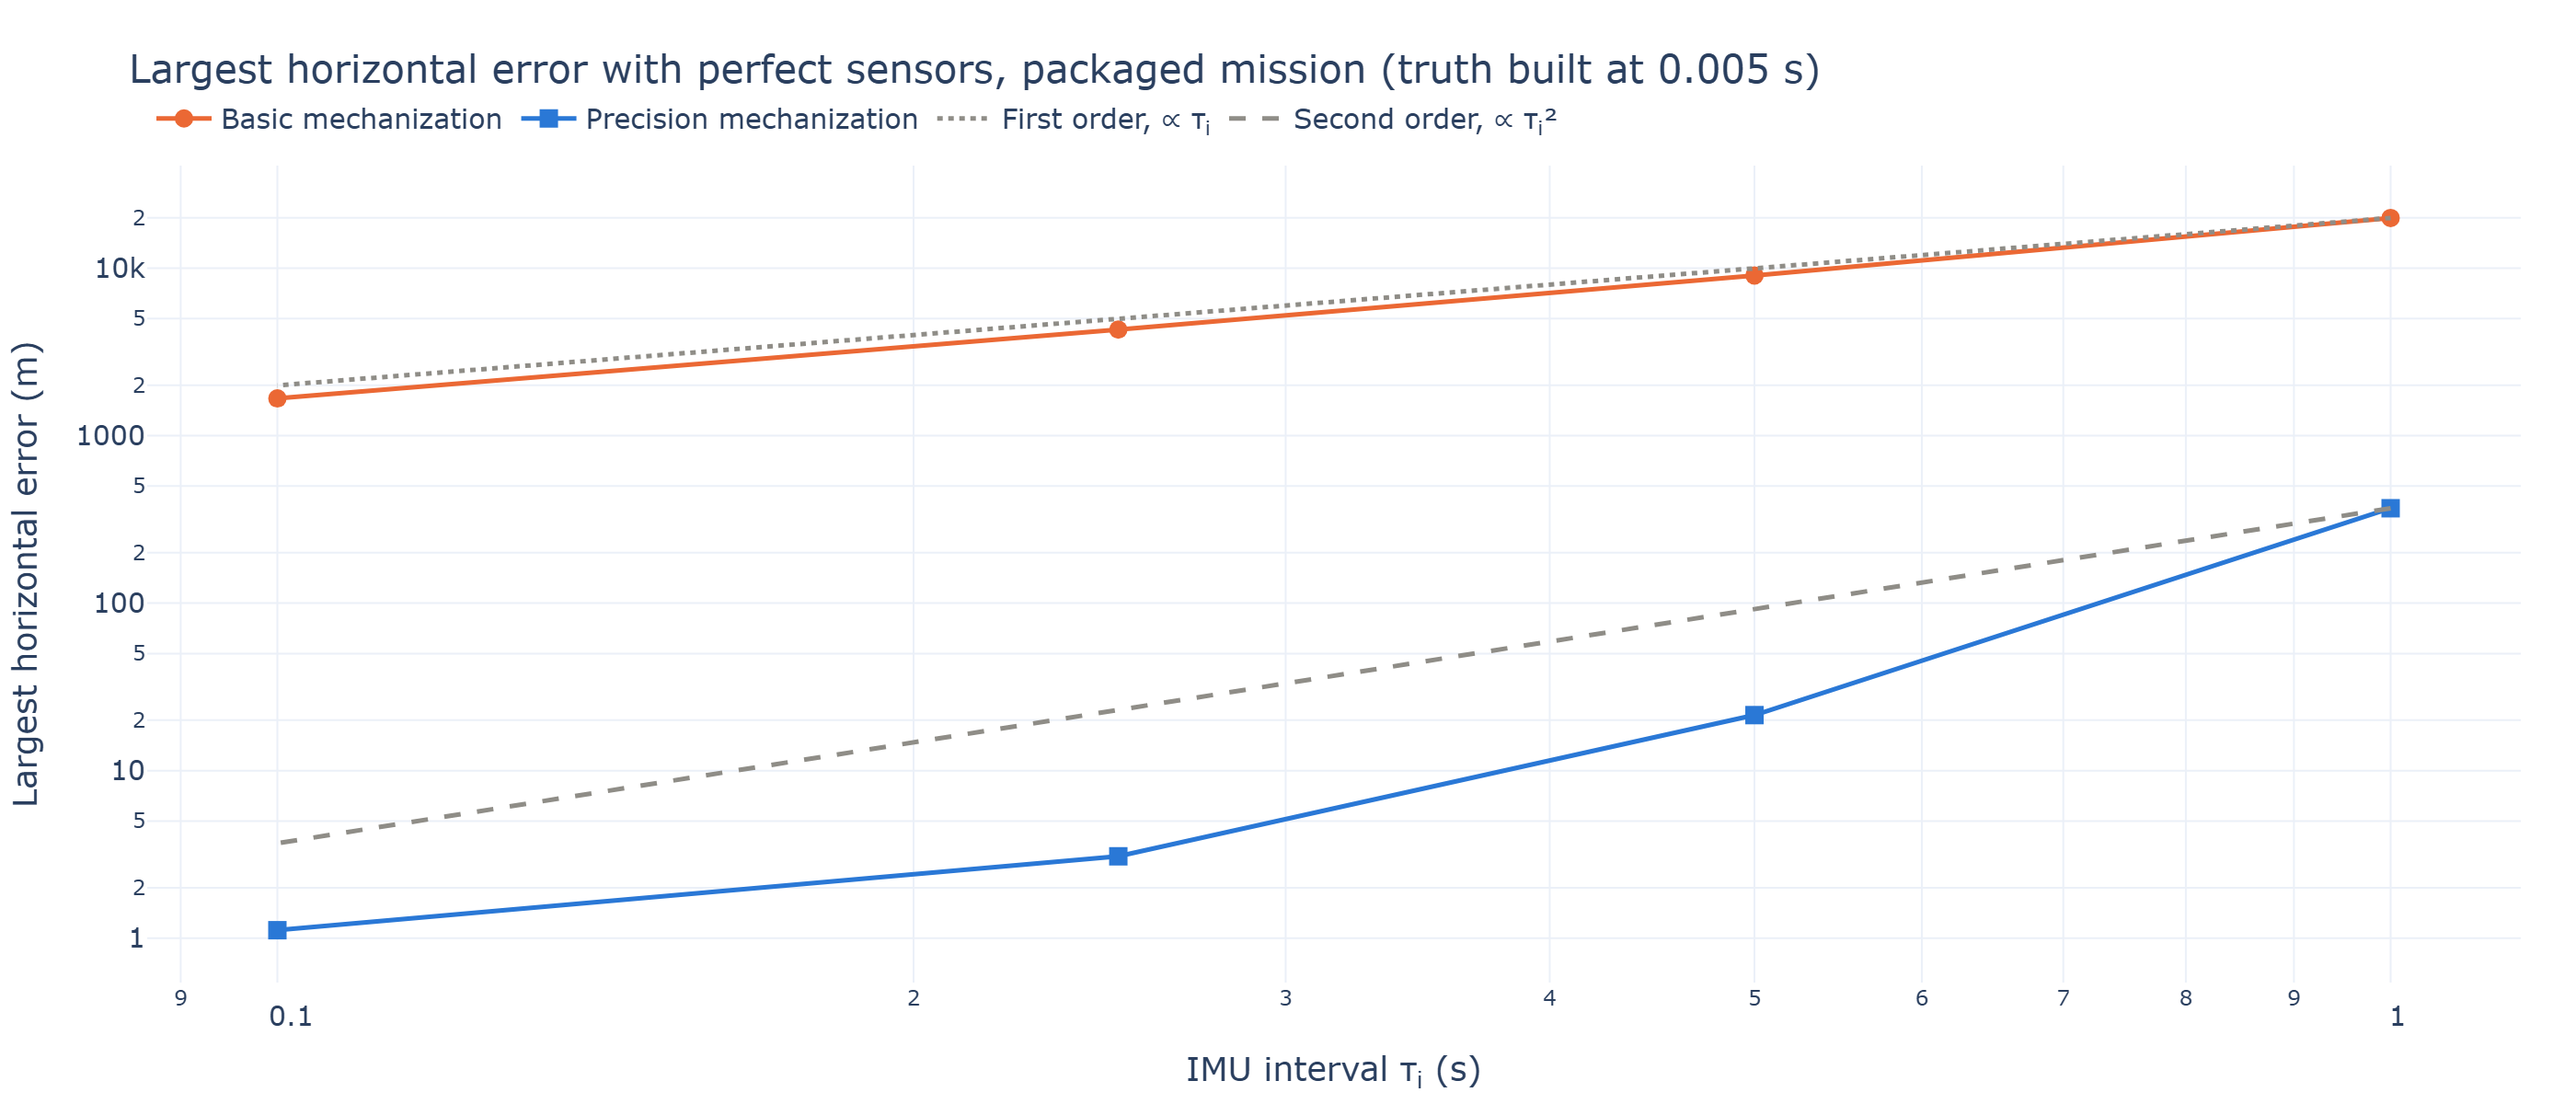
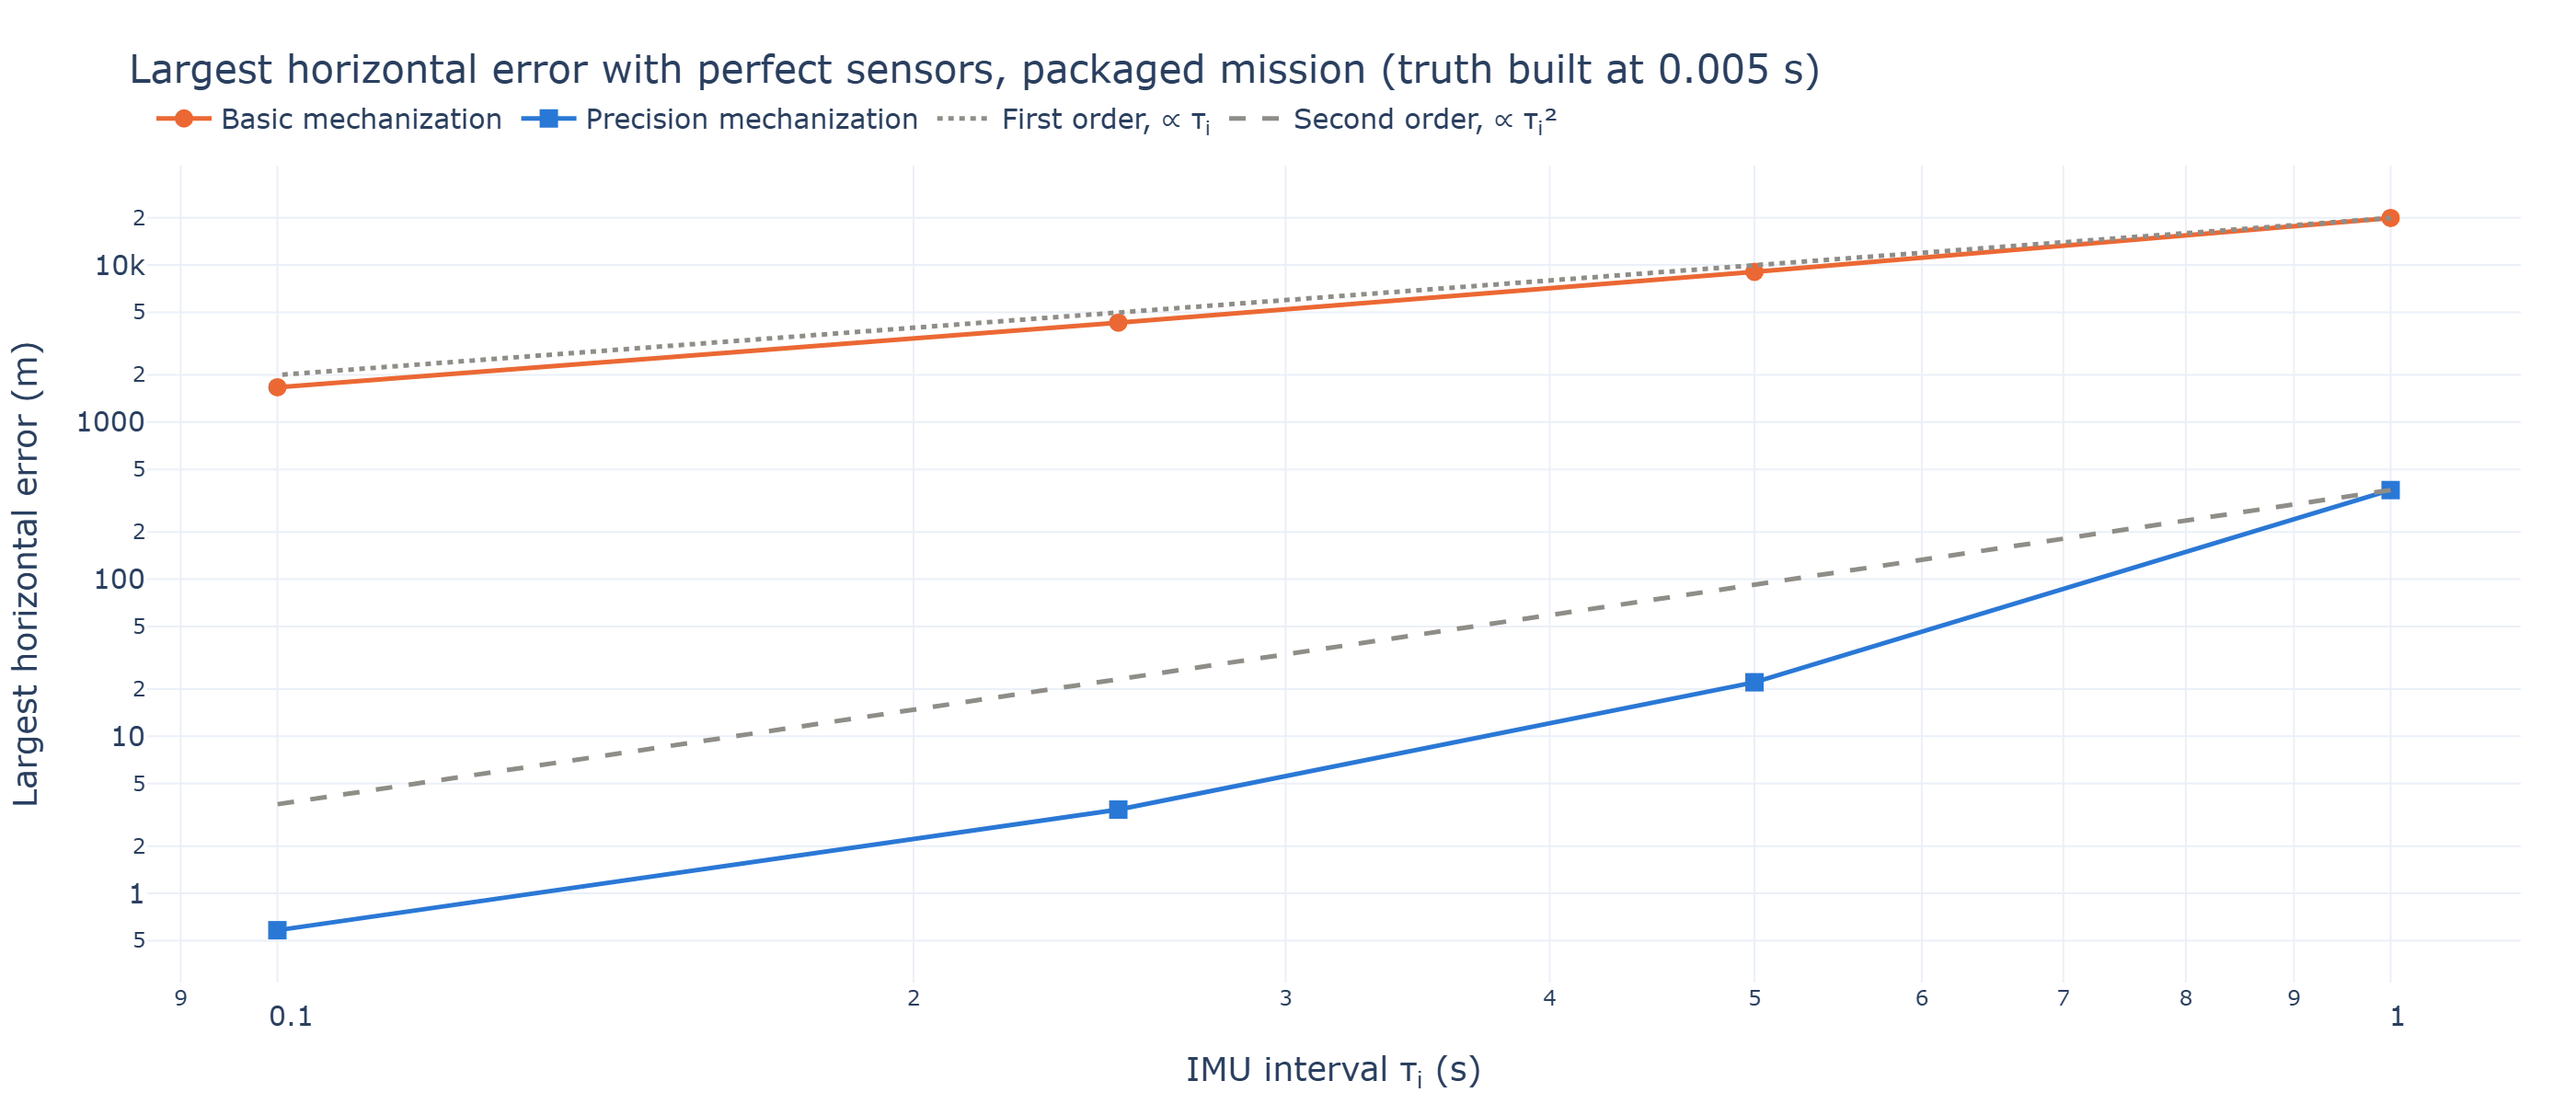
Fix the integrating-IMU truth's endpoint and interval averages
Answers the review of the precision mechanization:

- An oversampled spline truth no longer keeps a partial last profile
  step. Clamped to the path end, its second-order difference reversed
  the final velocity, a 180-degree heading jump and a false 4.6 g
  specific-force pulse. The path now stops up to one profile step short
  of its end; default truths are unchanged.
- The truth's fine-step specific force and frame rate take gravity, the
  Coriolis term and omega_in at the mean of their two end values, not
  the start values, which left a first-order bias in the truth.
- Both trapezoidal latitude updates, in the truth and in the precision
  navigator, take the end-of-step radii at a predicted end latitude.

With the defaults every seeded run still matches main exactly. On the
packaged mission at 0.1 s and M=10 with perfect sensors, the precision
navigator's largest error falls from 3.0 m to 1.9 m (the truth's floor);
at 1 s it is 198 m, and its convergence order is 4.06. The example
output, the validation figures and the docs carry the new numbers.

diff --git a/ins_sim/trajectory/kinematics.py b/ins_sim/trajectory/kinematics.py
@@ -258,12 +258,14 @@ class TruthTrajectory:
         # --8<-- [start:fine_position]
         for j in range(n_fine - 1):
             h.append(h[j] - 0.5 * (v_D[j] + v_D[j+1]) * tau_f)
+            # Radii at a predicted endpoint latitude keep the update second order.
+            L_pred = L[j] + v_N[j] / (R_N + h[j]) * tau_f
+            R_N_next, R_E_next = _radii(L_pred)
             L.append(L[j] + 0.5 * (v_N[j] / (R_N + h[j])
-                                   + v_N[j+1] / (R_N + h[j+1])) * tau_f)
-            R_N_next, R_E_next = _radii(L[j+1])
+                                   + v_N[j+1] / (R_N_next + h[j+1])) * tau_f)
             lam.append(lam[j] + 0.5 * (v_E[j] / ((R_E + h[j]) * cos(L[j]))
                                        + v_E[j+1] / ((R_E_next + h[j+1]) * cos(L[j+1]))) * tau_f)
-            R_N, R_E = R_N_next, R_E_next
+            R_N, R_E = _radii(L[j+1])
         # --8<-- [end:fine_position]
         L_b, lambda_b, h_b = np.array(L), np.array(lam), np.array(h)
 
@@ -283,12 +285,15 @@ class TruthTrajectory:
         #   omega_nb_b·tau_f + ∫ C_n^b(t) dt · omega_in_n
         #   ∫ C_n^b(t) dt · f_ib_n,
         # with ∫ C_n^b(t) dt = tau_f·Gamma(−phi)·C_n^b(j), phi = omega_nb_b·tau_f.
+        # Coriolis, gravity and omega_in_n change along the interval, so they
+        # take the mean of their end values, as the trapezoidal position does.
         # --8<-- [start:integrated_imu]
         phi = (C_b_n[:-1].inv() * C_b_n[1:]).as_rotvec()     # (n_fine-1, 3)
+        coriolis_minus_g = np.cross(omega_ie_n + omega_in_n, v_eb_n) - g_b_n
         f_ib_n = ((v_eb_n[1:] - v_eb_n[:-1]) / tau_f
-                  + np.cross(omega_ie_n[:-1] + omega_in_n[:-1], v_eb_n[:-1])
-                  - g_b_n[:-1])
-        alpha_fine = phi + tau_f * _gamma_apply(-phi, C_n_b.apply(omega_in_n[:-1]))
+                  + 0.5 * (coriolis_minus_g[:-1] + coriolis_minus_g[1:]))
+        omega_in_mid = 0.5 * (omega_in_n[:-1] + omega_in_n[1:])
+        alpha_fine = phi + tau_f * _gamma_apply(-phi, C_n_b.apply(omega_in_mid))
         upsilon_fine = tau_f * _gamma_apply(-phi, C_n_b.apply(f_ib_n))
         alpha = alpha_fine.reshape(n_out - 1, oversample, 3).sum(axis=1)
         upsilon = upsilon_fine.reshape(n_out - 1, oversample, 3).sum(axis=1)
@@ -328,7 +333,9 @@ class TruthTrajectory:
             lambda_b0_deg: Initial longitude [deg]. Defaults to -76.49.
             h_b0: Initial geodetic height [m]. Defaults to 100.0.
             oversample: Profile samples per IMU interval for an integrating
-                IMU; see `TruthTrajectory`. Defaults to None.
+                IMU; see `TruthTrajectory`. Defaults to None. When set, the
+                path stops at the last whole profile step, up to one step
+                short of its end.
 
         Returns:
             TruthTrajectory: Truth trajectory over the spline.
@@ -345,7 +352,11 @@ class TruthTrajectory:
         """
         T = path.length / speed
         tau_p = tau_i / (oversample or 1)                  # profile interval
-        t = np.arange(0.0, T + tau_p, tau_p)
+        if oversample is None:
+            t = np.arange(0.0, T + tau_p, tau_p)
+        else:
+            # Drop the partial last interval: clamping it reverses the velocity.
+            t = np.arange(int(np.floor(T / tau_p + 1e-9)) + 1) * tau_p
         s_of_t = np.minimum(speed * t, path.length)
         pos_profile = path.position(s_of_t)
         # An oversampled truth is integrated sample by sample, so first-order

diff --git a/ins_sim/navigation/strapdown.py b/ins_sim/navigation/strapdown.py
@@ -290,9 +290,10 @@ def strapdown_navgrade(meas_omega_ib_b: np.ndarray, meas_f_ib_b: np.ndarray,
             # --8<-- [start:precision_position]
             R_N, R_E = wgs84_radii(L_b[k])
             h_b[k+1] = h_b[k] - 0.5 * (v_eb_n[k, 2] + v_eb_n[k+1, 2]) * tau_i
+            L_pred = L_b[k] + v_eb_n[k, 0] / (R_N + h_b[k]) * tau_i
+            R_N_next, R_E_next = wgs84_radii(L_pred)
             L_b[k+1] = L_b[k] + 0.5 * (v_eb_n[k, 0] / (R_N + h_b[k])
-                                       + v_eb_n[k+1, 0] / (R_N + h_b[k+1])) * tau_i
-            R_E_next = wgs84_radii(L_b[k+1])[1]
+                                       + v_eb_n[k+1, 0] / (R_N_next + h_b[k+1])) * tau_i
             lambda_b[k+1] = lambda_b[k] + 0.5 * (
                 v_eb_n[k, 1] / ((R_E + h_b[k]) * np.cos(L_b[k]))
                 + v_eb_n[k+1, 1] / ((R_E_next + h_b[k+1]) * np.cos(L_b[k+1]))) * tau_i

diff --git a/tests/trajectory/test_trajectory.py b/tests/trajectory/test_trajectory.py
@@ -145,6 +145,15 @@ def test_oversampled_outputs_are_interval_averages_for_steady_flight():
     np.testing.assert_allclose(averaged.omega_ib_b[1:n], exact.omega_ib_b[1:n], atol=1e-9)
 
 
+def test_oversampled_spline_keeps_its_speed_to_the_end():
+    """A path that ends part-way through a profile step must not end with a
+    reversed velocity (and a large false specific-force pulse)."""
+    path = NEDSplinePath([[0.0, 0.0, 0.0], [4991.0, 0.0, 0.0]])
+    truth = TruthTrajectory.from_spline(path, speed=100.0, tau_i=1.0, oversample=10)
+    np.testing.assert_allclose(truth.v_eb_n[-3:, 0], 100.0, atol=1e-6)
+    np.testing.assert_allclose(truth.f_ib_b[-3:, 0], 0.0, atol=1e-6)
+
+
 def test_gamma_is_the_mean_rotation_over_the_interval():
     from ins_sim.trajectory.kinematics import _gamma_apply
     psi = np.array([[0.3, -0.2, 0.5], [1e-6, 0.0, 2e-6]])

diff --git a/docs/theory/truth-kinematics.md b/docs/theory/truth-kinematics.md
@@ -234,7 +234,8 @@ each interval. With `oversample` set to \(M\), the mission is built at the
 finer step \(\tau_f = \tau_i/M\), and the truth is the continuous motion
 through those fine samples: between two of them the body turns relative to
 NED at a constant rate, the velocity changes at a constant rate, and the
-specific force in NED is constant. The states are kept every \(M\)-th
+specific force in NED is constant, with gravity and the Coriolis term at
+the mean of their values at the two samples. The states are kept every \(M\)-th
 sample, and the outputs are the averages of \(\wvec{ib}{b}\) and
 \(\fvec{ib}{b}\) over each interval \(\tau_i\), which is what an integrating
 IMU reports.
@@ -247,10 +248,12 @@ linearly between fine samples:
     $$
     h_{b,j+1} = h_{b,j} - \tfrac12\left(v_{D,j} + v_{D,j+1}\right)\tau_f,
     \qquad
-    L_{b,j+1} = L_{b,j} + \tfrac12\left(\frac{v_{N,j}}{R_N + h_{b,j}} + \frac{v_{N,j+1}}{R_N + h_{b,j+1}}\right)\tau_f
+    L_{b,j+1} = L_{b,j} + \tfrac12\left(\frac{v_{N,j}}{R_{N,j} + h_{b,j}} + \frac{v_{N,j+1}}{R_{N,j+1} + h_{b,j+1}}\right)\tau_f
     $$
 
-    and likewise for \(\lambda_b\).
+    and likewise for \(\lambda_b\). The radii at the end of the step are
+    taken at a latitude predicted with the start values, which keeps the
+    update second order.
 
 === "Code"
 
@@ -270,13 +273,15 @@ the way through it. Averaging that over the step gives the matrix
 === "Equation"
 
     $$
-    \avec{ib,j}{b} = \boldsymbol{\phi}_j + \tau_f\,\boldsymbol{\Gamma}(-\boldsymbol{\phi}_j)\,\Cmat{n}{b}(j)\,\wvec{in}{n}(j),
+    \avec{ib,j}{b} = \boldsymbol{\phi}_j + \tau_f\,\boldsymbol{\Gamma}(-\boldsymbol{\phi}_j)\,\Cmat{n}{b}(j)\,\bar{\boldsymbol{\omega}}_{in}^n(j),
     \qquad
     \uvec{ib,j}{b} = \tau_f\,\boldsymbol{\Gamma}(-\boldsymbol{\phi}_j)\,\Cmat{n}{b}(j)\,\fvec{ib}{n}(j)
     $$
 
-    with \(\fvec{ib}{n}(j)\) as in step 4 above, at the fine step. The
-    outputs are the sums over the \(M\) fine steps of each interval,
+    with \(\fvec{ib}{n}(j)\) as in step 4 above, at the fine step, but with
+    gravity and the Coriolis term averaged over the two samples, and
+    \(\bar{\boldsymbol{\omega}}_{in}^n(j)\) the mean of \(\wvec{in}{n}\) at
+    the two samples. The outputs are the sums over the \(M\) fine steps of each interval,
     divided by \(\tau_i\).
 
 === "Code"
@@ -288,8 +293,8 @@ the way through it. Averaging that over the step gives the matrix
 The truth is still built from fine samples, so it is continuous motion only
 to the extent that the fine step resolves it. Against it, a navigator at
 \(\tau_i\) shows its own error plus a floor from the fine step that falls
-with \(\tau_f^2\): on the packaged mission, about 3 m of horizontal error at
-\(\tau_f\) = 0.01 s, and 1 m at 0.005 s. Keep \(M\) large enough that the
+as \(\tau_f\) shrinks: on the packaged mission, about 2 m of horizontal
+error at \(\tau_f\) = 0.01 s, and 0.6 m at 0.005 s. Keep \(M\) large enough that the
 floor stays below the error you want to see. The
 [Strapdown mechanization](mechanization.md#precision-mechanization) page
 describes the navigator that integrates these outputs accurately.

diff --git a/docs/theory/mechanization.md b/docs/theory/mechanization.md
@@ -23,7 +23,7 @@ Groves[^groves].
       coning, rotation and sculling corrections and a trapezoidal position
       update, for the outputs of a real, integrating IMU. On the packaged
       mission at a 0.1 s step it cuts the navigator's own error from
-      1.7 km to about 3 m.
+      1.7 km to about 2 m.
 
 ## Physical picture
 
@@ -323,10 +323,12 @@ NED and corrected for half the nav frame's rotation:
     $$
     h_{b,k+1} = h_{b,k} - \tfrac12\left(v_{D,k} + v_{D,k+1}\right)\tau_i,
     \qquad
-    L_{b,k+1} = L_{b,k} + \tfrac12\left(\frac{v_{N,k}}{R_N + h_{b,k}} + \frac{v_{N,k+1}}{R_N + h_{b,k+1}}\right)\tau_i
+    L_{b,k+1} = L_{b,k} + \tfrac12\left(\frac{v_{N,k}}{R_{N,k} + h_{b,k}} + \frac{v_{N,k+1}}{R_{N,k+1} + h_{b,k+1}}\right)\tau_i
     $$
 
-    and likewise for \(\lambda_b\), with \(R_E\) and \(\cos L_b\) at each end.
+    and likewise for \(\lambda_b\), with \(R_E\) and \(\cos L_b\) at each
+    end. The radii at the end of the step are taken at a latitude predicted
+    with the start values, which keeps the update second order.
 
 === "Code"
 
@@ -449,8 +451,8 @@ integrating IMU's outputs:
 
 Each mechanization is exact on the outputs it was built for and about
 20 km off on the other's. On the integrating IMU the precision update is
-100 times closer; the 186 m it keeps comes from the roll into each turn,
-which at 6 °/s is fast for a 1 s step. At the app's 0.1 s it is about 3 m.
+100 times closer; the 198 m it keeps comes from the roll into each turn,
+which at 6 °/s is fast for a 1 s step. At the app's 0.1 s it is about 2 m.
 
 ## References
 

diff --git a/includes/validation_results.md b/includes/validation_results.md
@@ -17,7 +17,7 @@
 | East acceleration error from sculling, basic mechanization | −23.40 µg | −23.38 µg | −0.09% |
 | East acceleration error from sculling, precision mechanization | −0.0738 µg | −0.0738 µg | −0.07% |
 | Order of the basic mechanization's error, \(\tau_i\) = 1 → 0.5 s | 1 | 1.14 | first order |
-| Order of the precision mechanization's error, \(\tau_i\) = 1 → 0.5 s | ≥ 2 | 4.10 | higher order |
+| Order of the precision mechanization's error, \(\tau_i\) = 1 → 0.5 s | ≥ 2 | 4.06 | higher order |
 | Integrated-angle spread after 30 min, \(\tau_i\) = 0.1 s | 5.09″ | 5.04″ | −0.91% |
 | Integrated-angle spread after 30 min, \(\tau_i\) = 1 s | 5.09″ | 5.08″ | −0.23% |
 | Gauss–Markov bias spread at the first sample | σ | 0.997 σ | −0.34% |

diff --git a/docs/guide/index.md b/docs/guide/index.md
@@ -96,7 +96,7 @@ alone to study sensor errors.
 
 With perfect sensors, on the packaged mission at 0.1 s with oversampling at
 10, the basic update alone puts the track up to 1.7 km off, and the
-precision update about 3 m. The
+precision update about 2 m. The
 [Strapdown mechanization](../theory/mechanization.md#precision-mechanization)
 page explains the difference.
 
